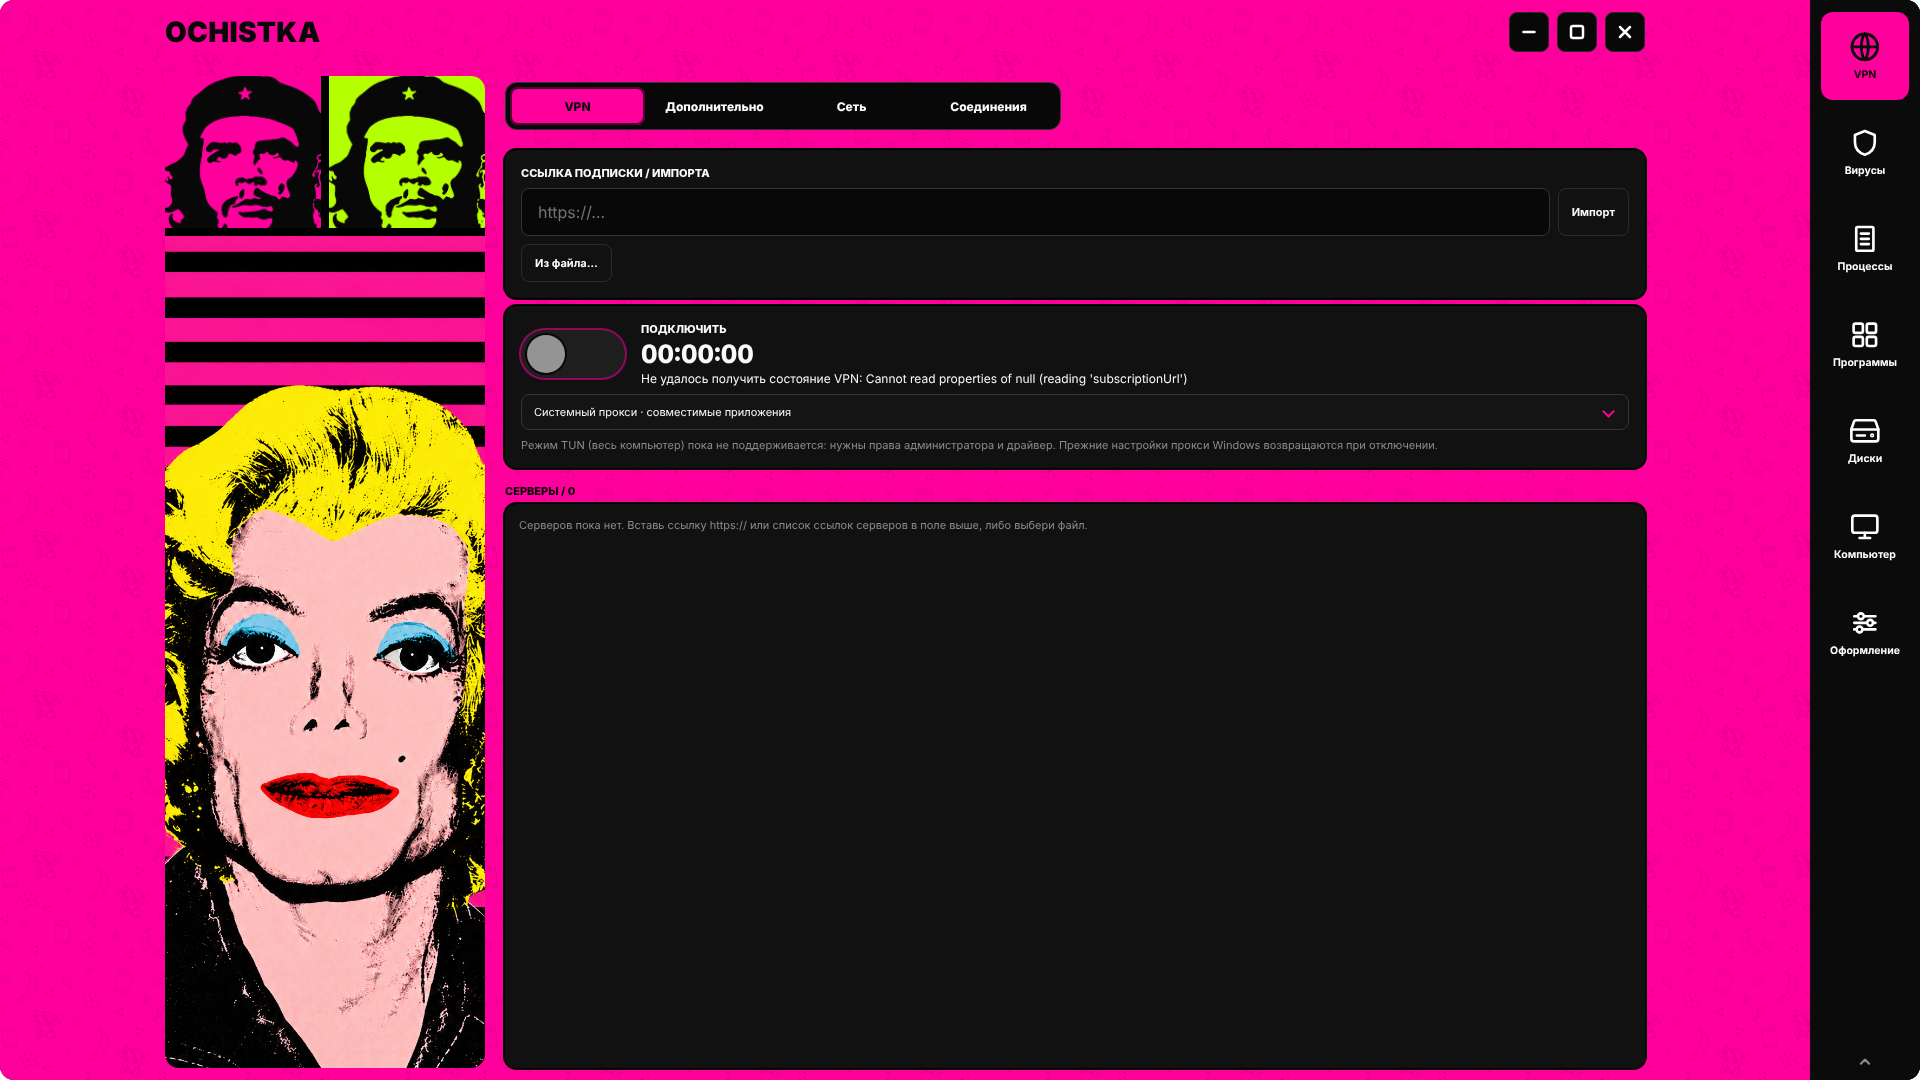
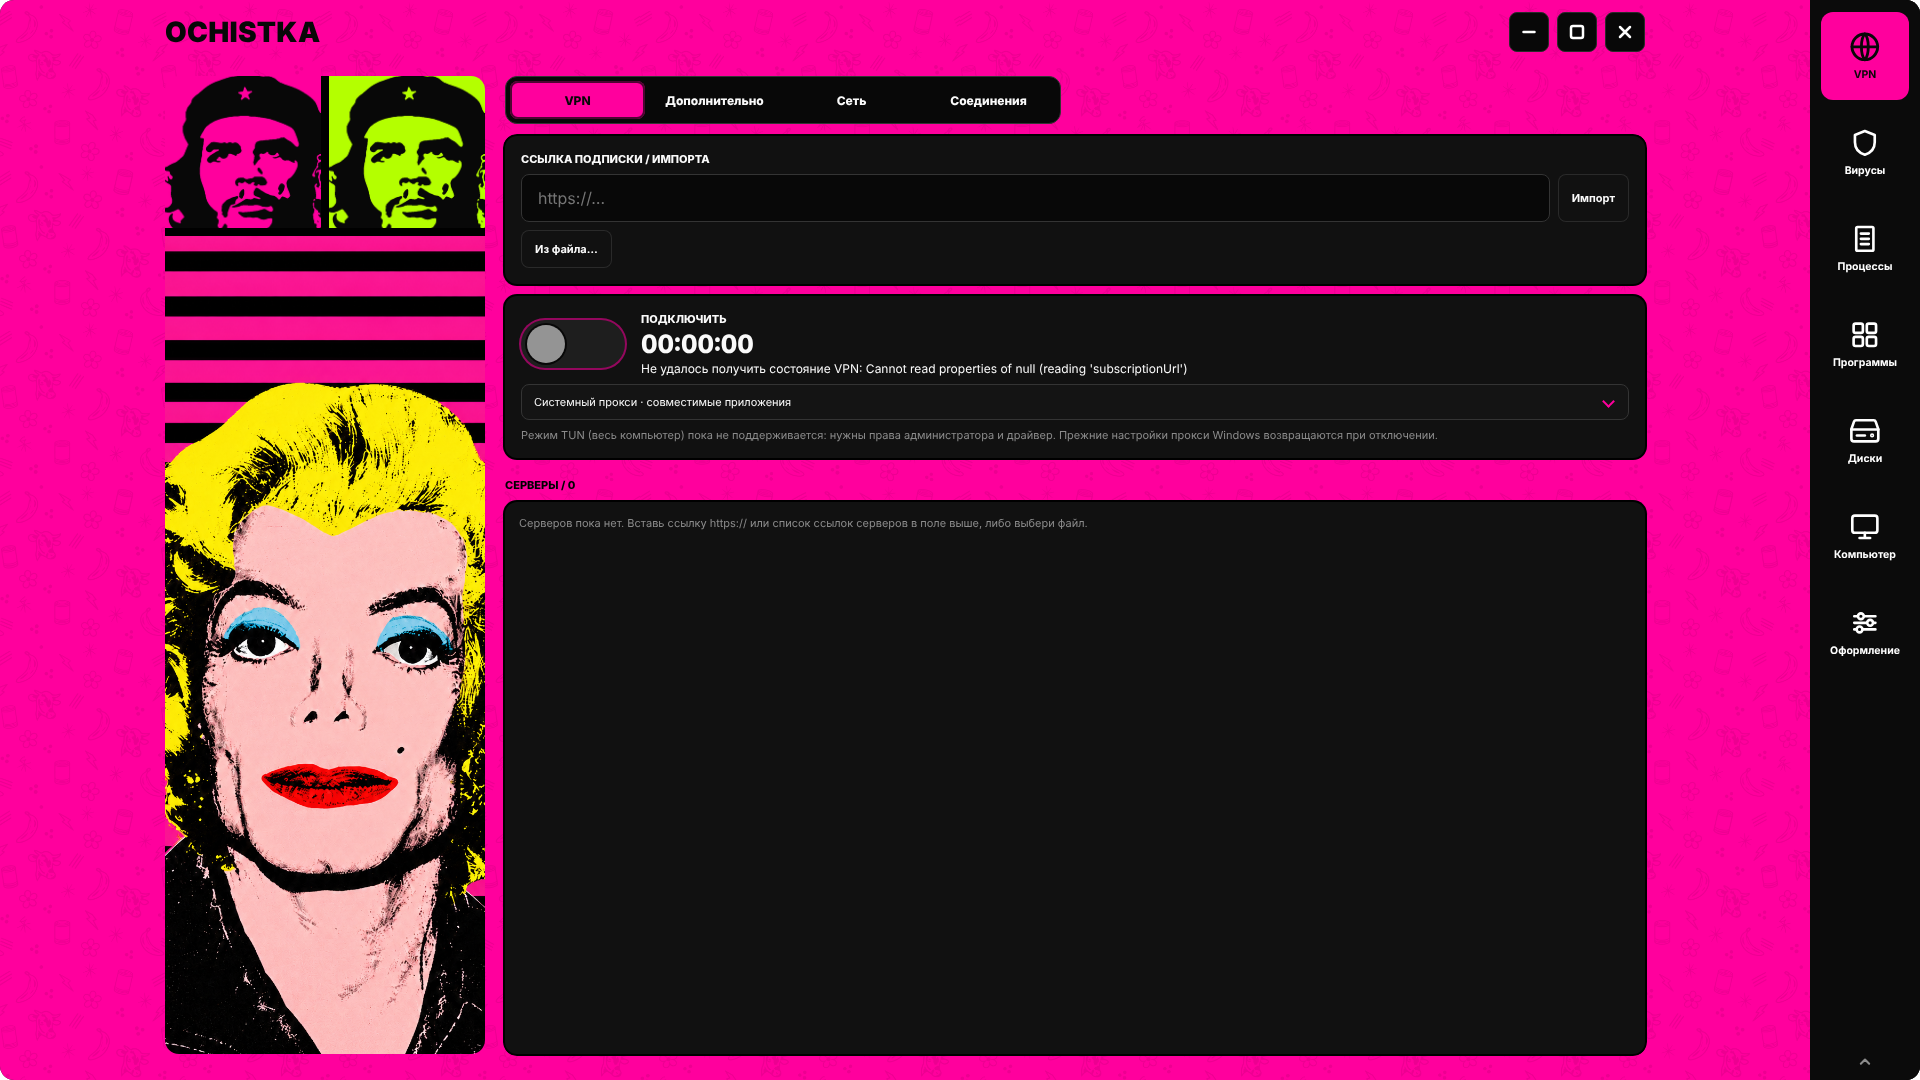
style(ui): unified control radii, equal bottom padding, VPN spacing on three levels, rounded scroll clipping, repeated notes removed
Claude-Session: https://claude.ai/code/session_01CrL2vkkucqzyVPL3EYmh66

Changed region(s): [[0.0625, 0.0611, 0.875, 1.0]]

diff --git a/apps/desktop/src/components/VpnPage.svelte b/apps/desktop/src/components/VpnPage.svelte
@@ -644,10 +644,17 @@
     white-space: nowrap;
   }
 
+  /* Три уровня промежутков: внутри карточки 8, между карточками и вкладками 12, между крупными
+     секциями 20. Верхняя панель вкладок стоит вплотную к верху колонки, как постер слева. */
+  .column :global(.subtabs) {
+    margin: 0;
+    min-height: 0;
+  }
+
   .column {
     display: flex;
     flex-direction: column;
-    gap: 8px;
+    gap: 12px;
     min-width: 0;
     min-height: 0;
   }
@@ -666,11 +673,13 @@
     display: flex;
     flex-direction: column;
     flex: 1;
-    gap: 8px;
+    gap: 12px;
     min-height: 0;
     /* Обводка карточек (тень 2px) раньше обрезалась прокруткой: поле 2px внутри, минус снаружи. */
     margin: -2px;
     padding: 2px;
+    /* Обрезание прокручиваемого содержимого идёт по скруглённой границе, а не по прямой линии. */
+    border-radius: var(--radius-lg);
     overflow-y: auto;
     animation: pane-in 0.22s ease-out;
   }
@@ -1033,16 +1042,8 @@
   /* Невысокое окно (минимум 712): карточки компактнее, чтобы блок серверов и «Соединения»
      заканчивались на нижней линии постера, а не уходили под неё. Размеры вкладок те же. */
   @media (max-height: 780px) {
-    .pane {
-      gap: 6px;
-    }
-
     .card {
       padding: 12px 16px;
-    }
-
-    .list-head {
-      margin-top: 4px;
     }
 
     .servers-card {

diff --git a/apps/desktop/src/components/SettingsBoost.test.ts b/apps/desktop/src/components/SettingsBoost.test.ts
@@ -80,7 +80,7 @@ describe('SettingsPage', () => {
   it('shows the saved-state note once and collapsible groups; no search field and no category chips', async () => {
     render(SettingsPage);
     await waitFor(() => expect(tweaksOverview).toHaveBeenCalled());
-    expect(screen.getAllByText(/Исходное состояние сохраняется перед применением/)).toHaveLength(1);
+    expect(screen.queryByText(/Исходное состояние сохраняется перед применением/)).toBeNull();
     // Первая группа открыта, остальные свёрнуты.
     expect(screen.getByText('Убрать прозрачность Windows')).toBeTruthy();
     expect(screen.queryByText('Убрать веб-подсказки из поиска')).toBeNull();
@@ -247,7 +247,7 @@ describe('BoostPage', () => {
       expect(within(group).getByRole('radio', { name })).toBeTruthy();
     }
     for (const tweak of BOOST_EXTRAS) expect(screen.getByText(tweak.title)).toBeTruthy();
-    expect(screen.getAllByText(/Исходное состояние сохраняется перед применением/)).toHaveLength(1);
+    expect(screen.queryByText(/Исходное состояние сохраняется перед применением/)).toBeNull();
   });
 
   it('marks the active profile and switches at once, the old one clears in the same tick', async () => {

diff --git a/apps/desktop/src/components/BoostPage.svelte b/apps/desktop/src/components/BoostPage.svelte
@@ -5,7 +5,6 @@
   import {
     BOOST_EXTRAS,
     BOOST_PROFILES,
-    SAVED_NOTE,
     VBS_CONFIRM,
     profileStepTitle,
     restartText,
@@ -76,9 +75,7 @@
 
 <section class="page">
   <h2 class="sr-only">Boost / Игры</h2>
-  <p class="note">
-    {SAVED_NOTE} Результат зависит от игры и оборудования: прироста FPS никто не обещает.
-  </p>
+  <p class="note">Результат зависит от игры и оборудования: прироста FPS никто не обещает.</p>
 
   <div class="toolbar">
     <button
@@ -221,7 +218,7 @@
     display: inline-flex;
     max-width: 100%;
     padding: 3px;
-    border-radius: var(--radius-pill);
+    border-radius: var(--radius-md);
     background: var(--black, #080808);
     box-shadow: 0 0 0 2px var(--ink, #fafafa);
   }
@@ -230,7 +227,7 @@
     min-height: 32px;
     padding: 4px 20px;
     border: 0;
-    border-radius: var(--radius-pill);
+    border-radius: var(--radius-sm);
     background: transparent;
     color: var(--ink, #fafafa);
     font: inherit;

diff --git a/apps/desktop/src/components/DriversPage.svelte b/apps/desktop/src/components/DriversPage.svelte
@@ -140,10 +140,8 @@
 <section class="drivers">
   <h2 class="sr-only">Драйверы / твоё оборудование</h2>
   <p class="lead">
-    Выбери производителя и установи драйвер официальным установщиком. Приложение скачивает файл
-    только с сайта производителя, проверяет цифровую подпись и запускает установщик; права
-    администратора Windows запросит у него самого. Где прямой загрузки нет, откроется официальный
-    сайт.
+    Файл скачивается только с сайта производителя, подпись проверяется; права администратора
+    запросит сам установщик.
   </p>
 
   <ul class="vendors" aria-label="Производители">

diff --git a/apps/desktop/src/components/ServicesPage.svelte b/apps/desktop/src/components/ServicesPage.svelte
@@ -297,7 +297,7 @@
     height: 48px;
     padding: 0 14px;
     border: 1px solid rgba(255, 255, 255, 0.08);
-    border-radius: var(--radius-md);
+    border-radius: var(--radius-sm);
     background: var(--surface);
     color: var(--ink);
     font: inherit;
@@ -314,7 +314,7 @@
   button {
     padding: 10px 14px;
     border: 1px solid rgba(255, 255, 255, 0.08);
-    border-radius: var(--radius-md);
+    border-radius: var(--radius-sm);
     background: var(--black);
     color: var(--ink);
     font: inherit;
@@ -419,7 +419,7 @@
   .pill {
     display: inline-block;
     padding: 4px 10px;
-    border-radius: var(--radius-sm);
+    border-radius: var(--radius-pill);
     background: #1c1c1c;
     color: var(--muted);
     font-size: 11px;

diff --git a/apps/desktop/src/components/SettingsPage.svelte b/apps/desktop/src/components/SettingsPage.svelte
@@ -9,7 +9,6 @@
   import { TweakRunner, tweakErrorText } from '../lib/tweakRunner.svelte';
   import {
     ACTIVATION_TEXT,
-    SAVED_NOTE,
     SETTINGS_CATEGORIES,
     SETTINGS_TWEAKS,
     restartText,
@@ -71,7 +70,6 @@
 
 <section class="page">
   <h2 class="sr-only">Настройки Windows</h2>
-  <p class="note">{SAVED_NOTE}</p>
 
   <div class="activation" aria-label="Активация Windows">
     <div class="activation-text">
@@ -144,12 +142,6 @@
     margin: 0 0 8px;
     font-size: var(--text-title);
     text-transform: uppercase;
-  }
-
-  .note {
-    margin: 0 0 8px;
-    font-size: var(--text-small);
-    color: var(--page-text);
   }
 
   .activation {

diff --git a/apps/desktop/src/components/DisksPage.svelte b/apps/desktop/src/components/DisksPage.svelte
@@ -230,7 +230,7 @@
   }
 </script>
 
-<p class="page-heading">Диски / {HEADINGS[subsection] ?? ''}</p>
+<p class="sr-only">Диски / {HEADINGS[subsection] ?? ''}</p>
 {#if disks.length > 0}
   <ul class="disk-tiles" aria-label="Диски">
     {#each disks as disk, index (disk.mountPoint)}
@@ -490,15 +490,6 @@
 {/if}
 
 <style>
-  .page-heading {
-    margin: 0 0 8px;
-    font-family: var(--font-heading);
-    font-size: var(--text-section);
-    font-weight: 900;
-    text-transform: uppercase;
-    color: var(--page-text);
-  }
-
   .disk-tiles {
     display: grid;
     grid-template-columns: repeat(auto-fit, minmax(280px, 1fr));

diff --git a/apps/desktop/src/components/ProcessesPage.svelte b/apps/desktop/src/components/ProcessesPage.svelte
@@ -414,7 +414,7 @@
     height: 48px;
     padding: 0 14px;
     border: 1px solid rgba(255, 255, 255, 0.08);
-    border-radius: var(--radius-md);
+    border-radius: var(--radius-sm);
     background: var(--surface);
     color: var(--ink);
     font: inherit;
@@ -430,7 +430,7 @@
   button {
     padding: 10px 14px;
     border: 1px solid rgba(255, 255, 255, 0.08);
-    border-radius: var(--radius-md);
+    border-radius: var(--radius-sm);
     background: var(--black);
     color: var(--ink);
     font: inherit;

diff --git a/apps/desktop/src/components/ProgramsPage.svelte b/apps/desktop/src/components/ProgramsPage.svelte
@@ -683,7 +683,7 @@
     height: 48px;
     padding: 0 14px;
     border: 1px solid rgba(255, 255, 255, 0.08);
-    border-radius: var(--radius-md);
+    border-radius: var(--radius-sm);
     background: var(--surface);
     color: var(--ink);
     font: inherit;
@@ -702,7 +702,7 @@
   button {
     padding: 10px 14px;
     border: 1px solid rgba(255, 255, 255, 0.08);
-    border-radius: var(--radius-md);
+    border-radius: var(--radius-sm);
     background: var(--black);
     color: var(--ink);
     font: inherit;

diff --git a/apps/desktop/src/lib/tweaksText.ts b/apps/desktop/src/lib/tweaksText.ts
@@ -13,10 +13,6 @@ export interface TweakCategory {
   tweaks: readonly TweakText[];
 }
 
-/** Служебная строка: показывается один раз вверху раздела, не в каждой строке. */
-export const SAVED_NOTE =
-  'Исходное состояние сохраняется перед применением. Любую настройку можно вернуть.';
-
 export const SETTINGS_CATEGORIES: readonly TweakCategory[] = [
   {
     id: 'look',

diff --git a/apps/desktop/src/components/AppearancePage.svelte b/apps/desktop/src/components/AppearancePage.svelte
@@ -672,7 +672,7 @@
     min-width: 56px;
     min-height: 36px;
     border: 1px solid #343434;
-    border-radius: var(--radius-pill);
+    border-radius: var(--radius-sm);
     background: transparent;
     color: var(--ink);
     font: inherit;

diff --git a/apps/desktop/src/App.svelte b/apps/desktop/src/App.svelte
@@ -416,7 +416,7 @@
     min-width: 0;
     min-height: 0;
     overflow: hidden auto;
-    padding: 0 var(--content-gutter) 8px;
+    padding: 0 var(--content-gutter) 22px;
     overscroll-behavior: contain;
     contain: layout paint;
   }
